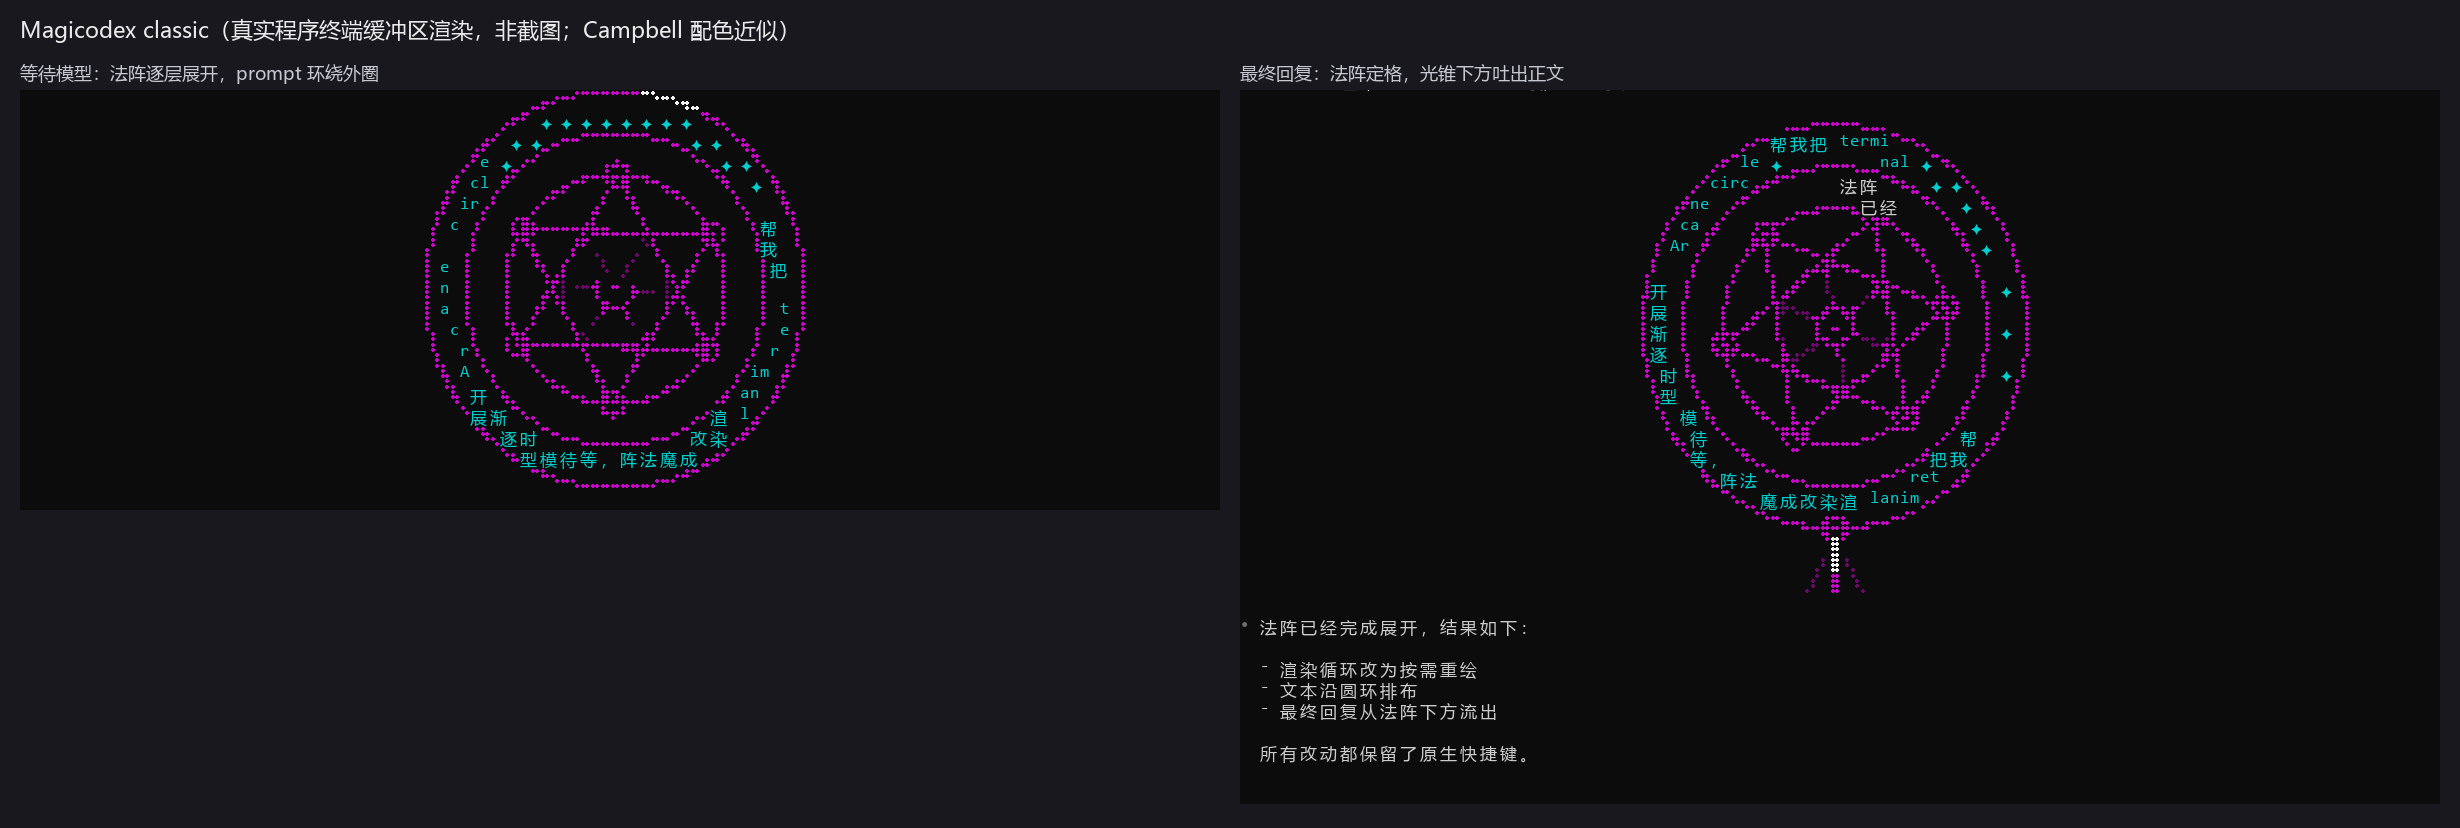
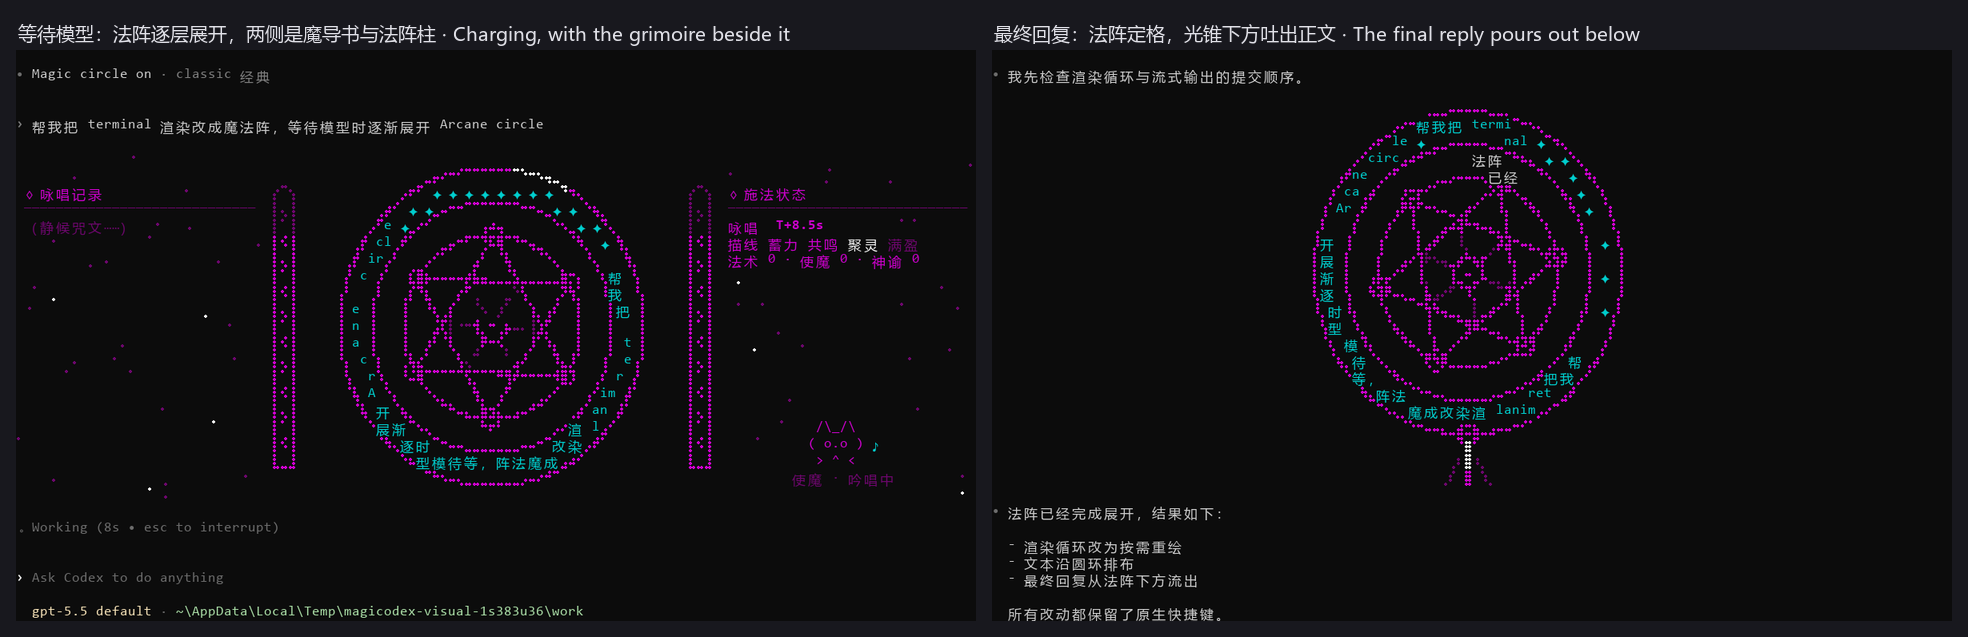
README review: install without GitHub CLI, current screenshots
README.md, in both languages:
- The repository is public, so install.ps1 is downloaded from
  releases/latest/download without GitHub CLI, or saved from the
  Releases page. Tested on Windows PowerShell 5.1 and PowerShell 7 with
  gh hidden from PATH: the installer lists the releases through the REST
  API, installs magicopilot 0.3.1 with its SHA256 checked, and
  uninstalls cleanly.
- Copilot CLI is tested with 1.0.87 and 1.0.88; "verified on 1.0.89"
  named a version that only exists as a prerelease. The end-to-end run
  passes on 1.0.88 in both modes.
- New screenshots: magicopilot.png from that run (the summoning circle,
  the grimoire beside the charging circle, the outlet, the picker with
  its random item); magic-classic.png rendered from Codex 0.7.0, which
  shows the grimoire beside the charging circle as the text describes.
- The Copilot usage paragraph is a list and names the summoning circle;
  a default style can be set with --magic-style or MAGICOPILOT_STYLE;
  a FAQ entry on what Copilot CLI and Codex updates mean; a tip for
  Windows Terminal tabs that miss the new PATH.

copilot/README.md and the release notes in New-Release.ps1 name the
tested versions; the notes' install snippet no longer needs gh.
docs/development.md records the installer's gh/REST behaviour and the
1.0.88 run. tests/render_frames.py runs codex.exe directly, so its
temporary config now turns the update check off.

Copilot-Session: 314c8a9e-a058-42bd-b7de-686d7c4a83f1

diff --git a/tests/render_frames.py b/tests/render_frames.py
@@ -327,6 +327,8 @@ model_provider = "magic_test"
 approval_policy = "on-request"
 sandbox_mode = "read-only"
 web_search = "disabled"
+# This runs codex.exe directly: never let its update prompt install another Codex.
+check_for_update_on_startup = false
 [features]
 enable_request_compression = false
 multi_agent = false

diff --git a/README.md b/README.md
@@ -17,7 +17,7 @@ Let your AI coding assistant cast spells in the terminal. When you submit a prom
 
 Works with **GitHub Copilot CLI** and **OpenAI Codex CLI**. The original program's interface, shortcuts, commands and default prompt stay unchanged. If you'd rather not see the circle, type `/magic off` to turn it off.
 
-![Casting on Copilot CLI: the idle circle, intermediate replies orbiting it, the final reply released below it, and the style picker](docs/images/magicopilot.png)
+![magicopilot on Copilot CLI: the summoning circle while Copilot starts, casting with the grimoire beside the circle, the answer pouring out below it, and the style picker](docs/images/magicopilot.png)
 
 ## Features
 
@@ -45,17 +45,18 @@ The earliest version, a standalone frontend with its own interface, has been arc
 **Prerequisites**
 
 - Windows 10/11 x64; [Windows Terminal](https://aka.ms/terminal) is recommended.
-- copilot: GitHub Copilot CLI installed and signed in (`npm install -g @github/copilot`; verified on 1.0.89).
+- copilot: GitHub Copilot CLI installed and signed in (`npm install -g @github/copilot`; tested with 1.0.87 and 1.0.88).
 - codex: a Codex account (a ChatGPT account or an API key). You don't need to install the official Codex separately.
-- The repository is currently private, so downloading requires a signed-in [GitHub CLI](https://cli.github.com/) (`gh auth login`).
 
 **Steps**
 
-1. Download the installer:
+1. Download the installer, in PowerShell:
 
    ```powershell
-   gh release download --repo dengyanbo/Magicodex --pattern install.ps1 --clobber
+   Invoke-WebRequest -UseBasicParsing https://github.com/dengyanbo/Magicodex/releases/latest/download/install.ps1 -OutFile install.ps1
    ```
+
+   Or save `install.ps1` from the [Releases](https://github.com/dengyanbo/Magicodex/releases) page with your browser, and run step 2 in the folder you saved it to.
 
 2. Run the installer and choose a version from the menu (`-AddToPath` adds the commands to PATH):
 
@@ -65,9 +66,9 @@ The earliest version, a standalone frontend with its own interface, has been arc
 
    You can also name the version directly: `-Variant copilot` or `-Variant codex`.
 
-3. Open a **new** terminal window and run `magicopilot` or `magicodex`.
+3. Open a **new** terminal window and run `magicopilot` or `magicodex`. (If a new Windows Terminal tab still can't find the command, close Windows Terminal completely and reopen it.)
 
-The installer first verifies the downloaded files against `SHA256SUMS.txt`, then installs them to `%LOCALAPPDATA%\Magicodex`. Without `-AddToPath`, it leaves PATH alone. It runs on both Windows PowerShell 5.1 and PowerShell 7. You can also download a zip from the [Releases](https://github.com/dengyanbo/Magicodex/releases) page, extract it and run it directly.
+The installer downloads from GitHub's public release pages (no GitHub account needed), verifies the files against `SHA256SUMS.txt`, then installs them to `%LOCALAPPDATA%\Magicodex`. Without `-AddToPath`, it leaves PATH alone. It runs on both Windows PowerShell 5.1 and PowerShell 7. You can also download a zip from the [Releases](https://github.com/dengyanbo/Magicodex/releases) page, extract it and run it directly.
 
 <details>
 <summary>All installer options</summary>
@@ -97,7 +98,14 @@ magicopilot --resume                # resume an earlier session
 magicopilot --magic-style thunder   # start with the Thunder circle
 ```
 
-The circle is on by default and drawn above Copilot's interface: 5 rows when idle, 21 while casting and 24 while releasing the answer, and Copilot always keeps at least 14 rows. After the answer, the settled circle stays for 15 seconds, then dims and scatters into dust before the idle emblem returns (an interrupted turn fades the same way). When Copilot asks for permission, the circle shrinks to make room; in windows shorter than 19 rows it hides automatically. What appears beside the charging circle depends on the width: pillars and particles from 65 columns, the grimoire pages from 89, and argument details and the familiar from 109. More options are described in [copilot/README.md](copilot/README.md) (in Chinese).
+The circle is on by default:
+
+- While Copilot is still loading, a summoning circle fills the empty screen; it scatters into dust as soon as Copilot appears.
+- After that, it sits above Copilot's interface: 5 rows when idle, 21 while casting and 24 while releasing the answer. Copilot always keeps at least 14 rows. When Copilot asks for permission, the circle shrinks to make room; in windows shorter than 19 rows it hides automatically.
+- After the answer, the settled circle stays for 15 seconds, then dims and scatters into dust before the idle emblem returns (an interrupted turn fades the same way).
+- What appears beside the charging circle depends on the width: pillars and particles from 65 columns, the grimoire pages from 89, and argument details and the familiar from 109.
+
+To start with another style, with the circle hidden or without motion, or with a specific Copilot CLI, see the options in [copilot/README.md](copilot/README.md) (in Chinese).
 
 ### Codex CLI: `magicodex`
 
@@ -120,7 +128,7 @@ In either version, type these commands **in the input box** and press Enter:
 | `/magic <style>` | Switches directly, e.g. `/magic fire` or `/magic 火` |
 | `/magic random` (or `/magic 随机`) | Casts a different circle every turn, never the same one twice in a row; also the last item of the list |
 
-These commands are handled locally and never sent to the model. Settings only last for the current run and go back to the defaults when you restart. In Codex, don't pass `/magic on` as a command-line argument, or it will be sent to the model as a prompt.
+These commands are handled locally and never sent to the model. Settings only last for the current run and go back to the defaults when you restart; in magicopilot you can set a default style with `--magic-style <style>` or the `MAGICOPILOT_STYLE` environment variable. In Codex, don't pass `/magic on` as a command-line argument, or it will be sent to the model as a prompt.
 
 Copilot's own command list never shows `/magic`, because Copilot builds that list itself. So as you type `/` or the start of `/magic`, magicopilot shows its usage in the top-left corner of the circle area; just press Enter as usual.
 
@@ -151,7 +159,7 @@ These images were rendered from the terminal contents of the real programs, driv
 
 ## Updating and uninstalling
 
-All of these commands need `install.ps1`, which you can download again at any time with the `gh release download` command above.
+All of these commands need `install.ps1`; you can download it again at any time as in step 1 of the installation above.
 
 ```powershell
 powershell -ExecutionPolicy Bypass -File .\install.ps1 -List                        # list available and installed versions
@@ -183,6 +191,12 @@ The circle is drawn with Braille dot characters (such as ⣿) and Chinese text. 
 **What happens if the window is too small?**
 
 The Copilot version hides the circle in windows shorter than 19 rows; `/magic list` then only shows a notice, and you can switch with `/magic <style>` directly. The Codex version leaves out the circle's inner details when space runs short.
+
+**Will a Copilot CLI or Codex update break it?**
+
+magicopilot runs whichever Copilot CLI you have installed, so a Copilot update takes effect right away. magicopilot relies on a few things Copilot doesn't promise to keep, such as its input box, its session logs and its command-line options, so a new Copilot version can occasionally break part of it. This has happened once: a Copilot 1.0.89 prerelease added a `workflow` command that magicopilot 0.1.0 couldn't start (fixed in 0.1.1). If something stops working, run `copilot` directly until a fixed magicopilot is out.
+
+magicodex ships its own patched Codex 0.153.4, so updating the official Codex doesn't change it. That also means it doesn't get new Codex features, and models that require a newer Codex may not be available in it, until the patch is ported to a newer Codex. `magicodex-bridge` checks that the Codex your bridge uses is also 0.153.4 and refuses to start otherwise.
 
 **Does the Codex version affect my installed official Codex?**
 
@@ -228,7 +242,7 @@ Building from source, the patch structure, testing and the full verification rec
 
 支持 **GitHub Copilot CLI** 和 **OpenAI Codex CLI**。原程序的界面、快捷键、命令和默认 prompt 都保持不变；不想看的时候，输入 `/magic off` 就能关掉。
 
-![在 Copilot CLI 上施法：待机小阵、中间回复环绕、最终回复从法阵下方释放、法阵类型选择器](docs/images/magicopilot.png)
+![magicopilot 在 Copilot CLI 上：启动时的召唤法阵、施法时两侧的魔导书、回答从法阵下方释放、法阵类型选择器](docs/images/magicopilot.png)
 
 ## 特点
 
@@ -256,17 +270,18 @@ Building from source, the patch structure, testing and the full verification rec
 **准备**
 
 - Windows 10/11 x64，推荐使用 [Windows Terminal](https://aka.ms/terminal)。
-- copilot 版：已安装并登录 GitHub Copilot CLI（`npm install -g @github/copilot`，已在 1.0.89 上验证）。
+- copilot 版：已安装并登录 GitHub Copilot CLI（`npm install -g @github/copilot`，已在 1.0.87 和 1.0.88 上测试）。
 - codex 版：Codex 账号（ChatGPT 账号或 API key）；不需要另外安装官方 Codex。
-- 仓库目前是私有的，下载需要已登录的 [GitHub CLI](https://cli.github.com/)（`gh auth login`）。
 
 **安装步骤**
 
-1. 下载安装脚本：
+1. 在 PowerShell 中下载安装脚本：
 
    ```powershell
-   gh release download --repo dengyanbo/Magicodex --pattern install.ps1 --clobber
+   Invoke-WebRequest -UseBasicParsing https://github.com/dengyanbo/Magicodex/releases/latest/download/install.ps1 -OutFile install.ps1
    ```
+
+   也可以用浏览器从 [Releases](https://github.com/dengyanbo/Magicodex/releases) 页面保存 `install.ps1`，再在保存它的文件夹里执行第 2 步。
 
 2. 运行安装脚本，按菜单选择版本（`-AddToPath` 会把命令加入 PATH）：
 
@@ -276,9 +291,9 @@ Building from source, the patch structure, testing and the full verification rec
 
    也可以直接指定版本：`-Variant copilot` 或 `-Variant codex`。
 
-3. 打开一个**新的**终端窗口，运行 `magicopilot` 或 `magicodex`。
+3. 打开一个**新的**终端窗口，运行 `magicopilot` 或 `magicodex`。（如果 Windows Terminal 新开的标签页仍找不到命令，把 Windows Terminal 整个关掉再打开。）
 
-安装脚本会先用 `SHA256SUMS.txt` 校验下载的文件，再安装到 `%LOCALAPPDATA%\Magicodex`；不加 `-AddToPath` 就不会改动 PATH。Windows PowerShell 5.1 和 PowerShell 7 都可以运行。也可以在 [Releases](https://github.com/dengyanbo/Magicodex/releases) 页面下载 zip，解压后直接运行。
+安装脚本从 GitHub 的公开发布页下载（不需要 GitHub 账号），先用 `SHA256SUMS.txt` 校验，再安装到 `%LOCALAPPDATA%\Magicodex`；不加 `-AddToPath` 就不会改动 PATH。Windows PowerShell 5.1 和 PowerShell 7 都可以运行。也可以在 [Releases](https://github.com/dengyanbo/Magicodex/releases) 页面下载 zip，解压后直接运行。
 
 <details>
 <summary>安装脚本的全部参数</summary>
@@ -308,7 +323,14 @@ magicopilot --resume           # 恢复之前的会话
 magicopilot --magic-style 雷   # 以雷系法阵启动
 ```
 
-法阵默认开启，画在 Copilot 界面的上方：待机时占 5 行，施法时 21 行，释放回答时 24 行，Copilot 始终至少保留 14 行。回答之后，定格的法阵保留 15 秒，然后暗淡下去、向外扩散成点尘，再回到待机小阵（被中断的回合也这样消散）。Copilot 请求权限确认时，法阵会缩小让出空间；窗口低于 19 行时法阵自动隐藏。蓄力时两侧显示什么取决于窗口宽度：65 列起有法阵柱和粒子，89 列起有两页魔导书，109 列起再加上参数摘要和使魔。更多参数见 [copilot/README.md](copilot/README.md)。
+法阵默认开启：
+
+- Copilot 还在加载时，空白的屏幕上会展开一座召唤法阵；Copilot 一出现，它就化为光尘散去。
+- 之后法阵画在 Copilot 界面的上方：待机时占 5 行，施法时 21 行，释放回答时 24 行，Copilot 始终至少保留 14 行。Copilot 请求权限确认时，法阵会缩小让出空间；窗口低于 19 行时法阵自动隐藏。
+- 回答之后，定格的法阵保留 15 秒，然后暗淡下去、向外扩散成点尘，再回到待机小阵（被中断的回合也这样消散）。
+- 蓄力时两侧显示什么取决于窗口宽度：65 列起有法阵柱和粒子，89 列起有两页魔导书，109 列起再加上参数摘要和使魔。
+
+想换一种法阵启动、启动时隐藏法阵或关闭动画、指定 Copilot CLI 的路径，见 [copilot/README.md](copilot/README.md) 里的参数。
 
 ### Codex CLI：`magicodex`
 
@@ -331,7 +353,7 @@ magicopilot --magic-style 雷   # 以雷系法阵启动
 | `/magic <类型>` | 直接切换，例如 `/magic fire`、`/magic 火` |
 | `/magic 随机`（或 `/magic random`） | 每个回合随机换一种法阵，不会连续两次相同；也是列表的最后一项 |
 
-这些命令只在本机处理，不会发给模型。设置只在本次运行中有效，重新启动后恢复默认。在 Codex 里不要把 `/magic on` 写在命令行参数里，那样它会被当成发给模型的 prompt。
+这些命令只在本机处理，不会发给模型。设置只在本次运行中有效，重新启动后恢复默认；magicopilot 可以用 `--magic-style <类型>` 或环境变量 `MAGICOPILOT_STYLE` 指定默认法阵。在 Codex 里不要把 `/magic on` 写在命令行参数里，那样它会被当成发给模型的 prompt。
 
 Copilot 自己的命令列表里不会出现 `/magic`，因为那份列表由 Copilot 生成。所以输入 `/` 或 `/magic` 的开头时，magicopilot 会在法阵区域左上角显示它的用法，照常回车即可。
 
@@ -362,7 +384,7 @@ Copilot 自己的命令列表里不会出现 `/magic`，因为那份列表由 Co
 
 ## 更新与卸载
 
-以下命令都需要 `install.ps1`，它可以随时用上面的 `gh release download` 命令重新下载。
+以下命令都需要 `install.ps1`，可以随时按上面“安装”的第 1 步重新下载。
 
 ```powershell
 powershell -ExecutionPolicy Bypass -File .\install.ps1 -List                        # 查看可用与已安装的版本
@@ -394,6 +416,12 @@ powershell -ExecutionPolicy Bypass -File .\install.ps1 -Uninstall -Variant copil
 **窗口太小会怎样？**
 
 Copilot 版在窗口低于 19 行时隐藏法阵；这时 `/magic list` 只显示提示，可以直接用 `/magic <类型>` 切换。Codex 版在空间不足时会省略法阵的内层细节。
+
+**Copilot CLI 或 Codex 升级后，会影响它吗？**
+
+magicopilot 运行的是你安装的 Copilot CLI，Copilot 一升级就立刻生效。magicopilot 依赖 Copilot 没有承诺保持不变的几处地方（输入框的样子、会话记录、命令行参数），所以新版 Copilot 偶尔可能让它部分失效。这种情况出现过一次：Copilot 1.0.89 的预发布版新增了 `workflow` 命令，magicopilot 0.1.0 无法启动它（0.1.1 已修复）。遇到问题时，可以先直接运行 `copilot`，等 magicopilot 发布修复。
+
+magicodex 自带补丁版 Codex 0.153.4，升级官方 Codex 不会改变它；但也因此用不上 Codex 的新功能，要求更新版本 Codex 的新模型在它里面也可能用不了，直到补丁移植到新版 Codex。`magicodex-bridge` 会检查你的桥接使用的 Codex 是否也是 0.153.4，不是就拒绝启动。
 
 **Codex 版会影响我已安装的官方 Codex 吗？**
 

diff --git a/docs/development.md b/docs/development.md
@@ -48,7 +48,7 @@ pwsh -File scripts\New-Release.ps1 -Publish           # 生成并创建 GitHub R
 
 `install.ps1` 支持 Windows PowerShell 5.1 与 PowerShell 7，行为如下：
 
-- 仓库为私有时，通过 `gh api` 列出发布、用 `gh release download` 下载；公开仓库时可走 REST；`-Source <目录>` 从本地 zip 安装，不联网。
+- 列出与下载发布：已登录的 `gh` 可用时通过 `gh api` 与 `gh release download`（仓库私有时必须如此）；没有 `gh` 或未登录时，走 GitHub REST API 与发布资产的直链（公开仓库，无需账号；已在 PowerShell 5.1 与 7 上隐藏 `gh` 验证列出、安装、卸载）；`-Source <目录>` 从本地 zip 安装，不联网。
 - 先按 `SHA256SUMS.txt` 校验 zip，再解压到 `<安装目录>\<类型>\<版本>.partial`，核对包内的 `magicodex-package.json` 后才移到位；`-Force` 重装时，新包就绪后才替换旧的。命令入口是 `<安装目录>\bin\*.cmd`，按相对路径指向当前版本，路径中的非 ASCII 字符不会经过 cmd.exe 的代码页。
 - 只删除自己创建的目录，即带有该类型 `magicodex-package.json` 的目录，或 `.old-xxxxxxxx` 残留。删除或替换前，逐个文件以读写方式试开，检查目录是否在用（运行中的 EXE/DLL、被占用的文件）；在用时，升级保留旧版本，`-Force` 与卸载则拒绝且不做改动。这是因为 Windows 允许重命名运行中程序所在的目录，先改名再删会把目录删到只剩 EXE。
 - 相对 `-InstallDir` 以当前 PowerShell 位置为准。PATH 只在 `-AddToPath` 时修改，并保留 `REG_EXPAND_SZ`。测试时可用环境变量 `MAGICODEX_INSTALL_ENV_KEY` 把 PATH 的注册表键换成 HKCU 下的测试键。
@@ -414,6 +414,7 @@ uv run --no-project --with pyte --with pywinpty --with psutil --with wcwidth --w
   - 真实 Copilot 启动 1.5 秒时仍在加载，屏幕上是召唤法阵（顶部 5 行为空）。
   - 其余检查与 0.3.0 相同，全部通过。
   - 统计会话数时排除 Copilot 有时会建的隐藏目录 `.session-operation-locks`（此前会被误算成第二个会话）。
+- 之后本机 Copilot CLI 升级到 1.0.88，用已发布的 0.3.1 重跑端到端测试：Windows Terminal 模式（含 `--baseline` 对比）与通用模式全部通过，数值与 1.0.87 相同（召唤法阵 13 行、光尘 19 行、出口 15.0 秒、消散 1.6 秒）。README 的两张截图用这次的画面与 Codex 0.7.0 的渲染重新生成。
 - 60 项单元测试通过（新增 3 项：召唤的起止与时序、关闭或无动画时不出现、prompt 结束召唤；整屏渲染时召唤法阵不画待机小阵、随时间变大、含召唤文字，散去时不碰 Copilot 的文字并留出 2 列空白，1.6 秒后只剩待机小阵）；Clippy（`-D warnings`）无告警。
 
 ### 验证记录（0.3.0）
